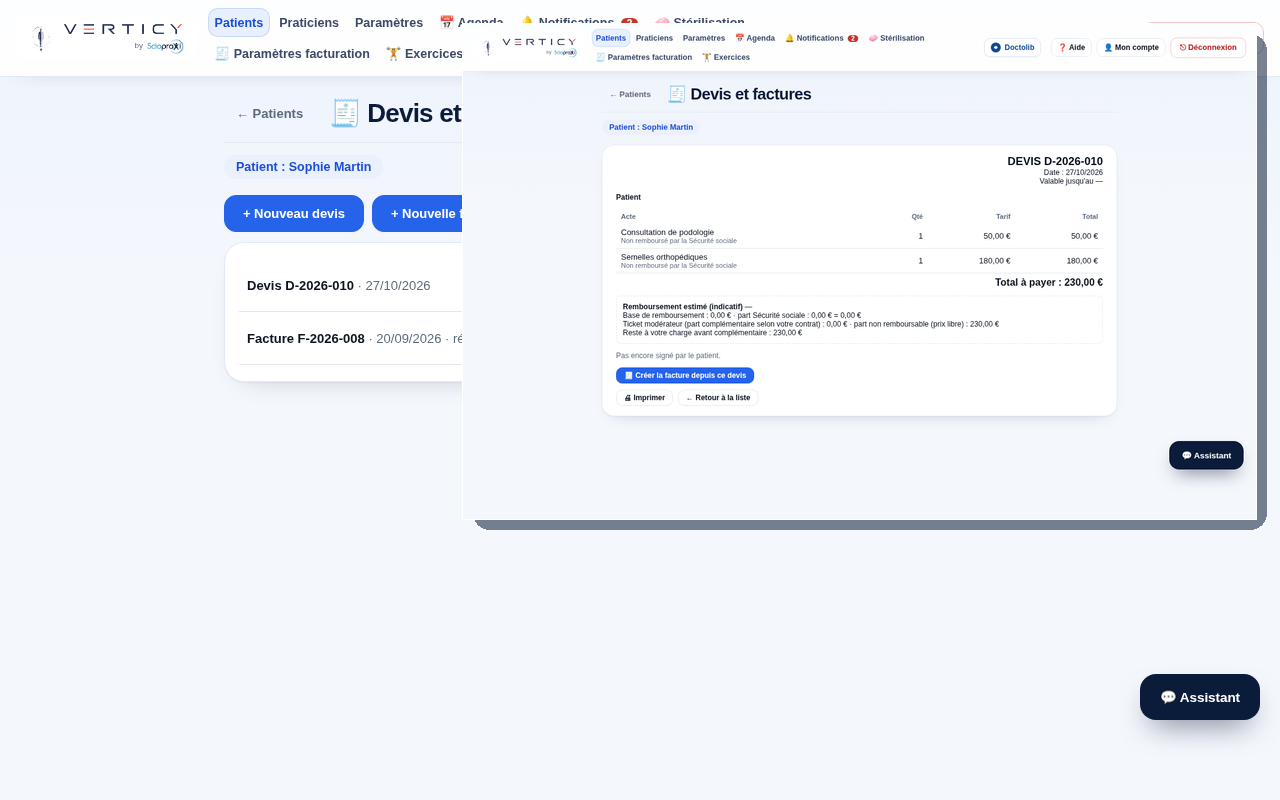
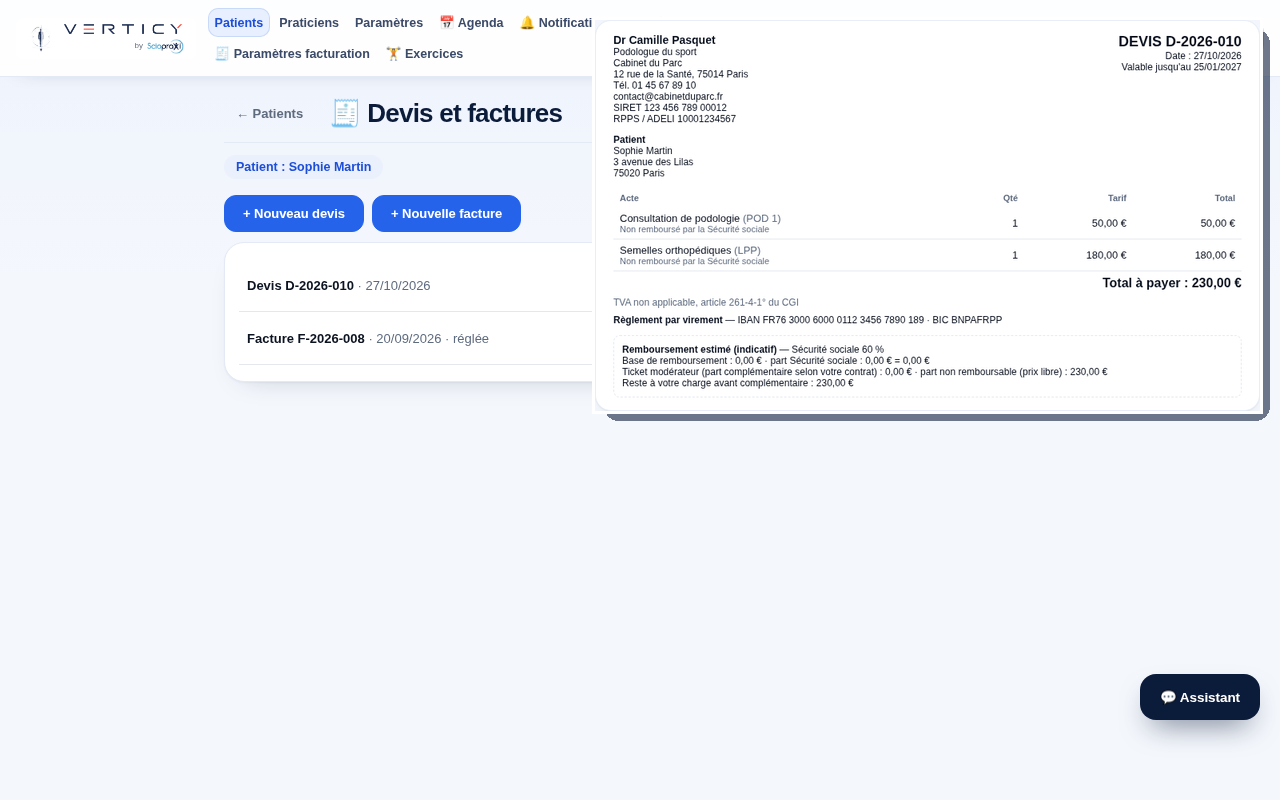
feat(landing): corrections précises — sport=accueil 4 colonnes, postural=bonhomme+points, pédicurie/podopédia=Synthèse, documents seuls superposés (v288)

diff --git a/js/landing-fonctions.js b/js/landing-fonctions.js
@@ -399,10 +399,10 @@
     'import-doctolib': { ic: 'download', img: 'assets/landing/import-doctolib.png' },
     'dossier-patient': { ic: 'folder', img: 'assets/landing/dossier-patient.png' },
     'arrivee-rdv': { ic: 'calcheck', img: 'assets/landing/arrivee-rdv.png' },
-    'bilan-postural': { ic: 'person', img: 'assets/landing/bilan-postural-interieur.png' },
-    'bilan-sport': { ic: 'pulse', img: 'assets/landing/bilan-sport-interieur.png' },
-    'bilan-podopediatrie': { ic: 'heart', img: 'assets/landing/bilan-podopediatrie-interieur.png' },
-    'bilan-pedicurie': { ic: 'scissors', img: 'assets/landing/bilan-pedicurie-interieur.png' },
+    'bilan-postural': { ic: 'person', img: 'assets/landing/bonhomme-postural.png' },
+    'bilan-sport': { ic: 'pulse', img: 'assets/landing/bilan-sport.png' },
+    'bilan-podopediatrie': { ic: 'heart', img: 'assets/landing/bilan-podopediatrie.png' },
+    'bilan-pedicurie': { ic: 'scissors', img: 'assets/landing/bilan-pedicurie.png' },
     'bilan-osteopathique': { ic: 'hand', img: 'assets/bilans/illus-osteopathie.jpg' },
     'dictee-vocale': { ic: 'mic' },
     'dictee-ia': { ic: 'spark' },

diff --git a/service-worker.js b/service-worker.js
@@ -10,7 +10,7 @@
 // 2026 (CACHE_VERSION n'avait jamais bougé, cache-first .js/.css bloquait les
 // clients sur du code de mois précédents). Toute évolution ultérieure du code
 // applicatif doit incrémenter cette version (garde-fou CI dans ci.yml).
-const CACHE_VERSION = 'biomeca-v287';
+const CACHE_VERSION = 'biomeca-v288';
 const CACHE_PREFIX  = 'biomeca-';
 
 // #77 — chemin de base réel du SW ('/' en localhost, '/biomeca-pwa/' sur
@@ -55,10 +55,10 @@ const PRECACHE_URLS = [
   './assets/landing/devis-factures.png',
   './assets/landing/import-doctolib.png',
   './assets/landing/arrivee-rdv.png',
-  './assets/landing/bilan-postural-interieur.png',
-  './assets/landing/bilan-sport-interieur.png',
-  './assets/landing/bilan-podopediatrie-interieur.png',
-  './assets/landing/bilan-pedicurie-interieur.png',
+  './assets/landing/bonhomme-postural.png',
+  './assets/landing/bilan-sport.png',
+  './assets/landing/bilan-podopediatrie.png',
+  './assets/landing/bilan-pedicurie.png',
   './assets/landing/ordonnances.png',
   './assets/landing/sterilisation.png',
   './assets/landing/rapport-pdf.png',
